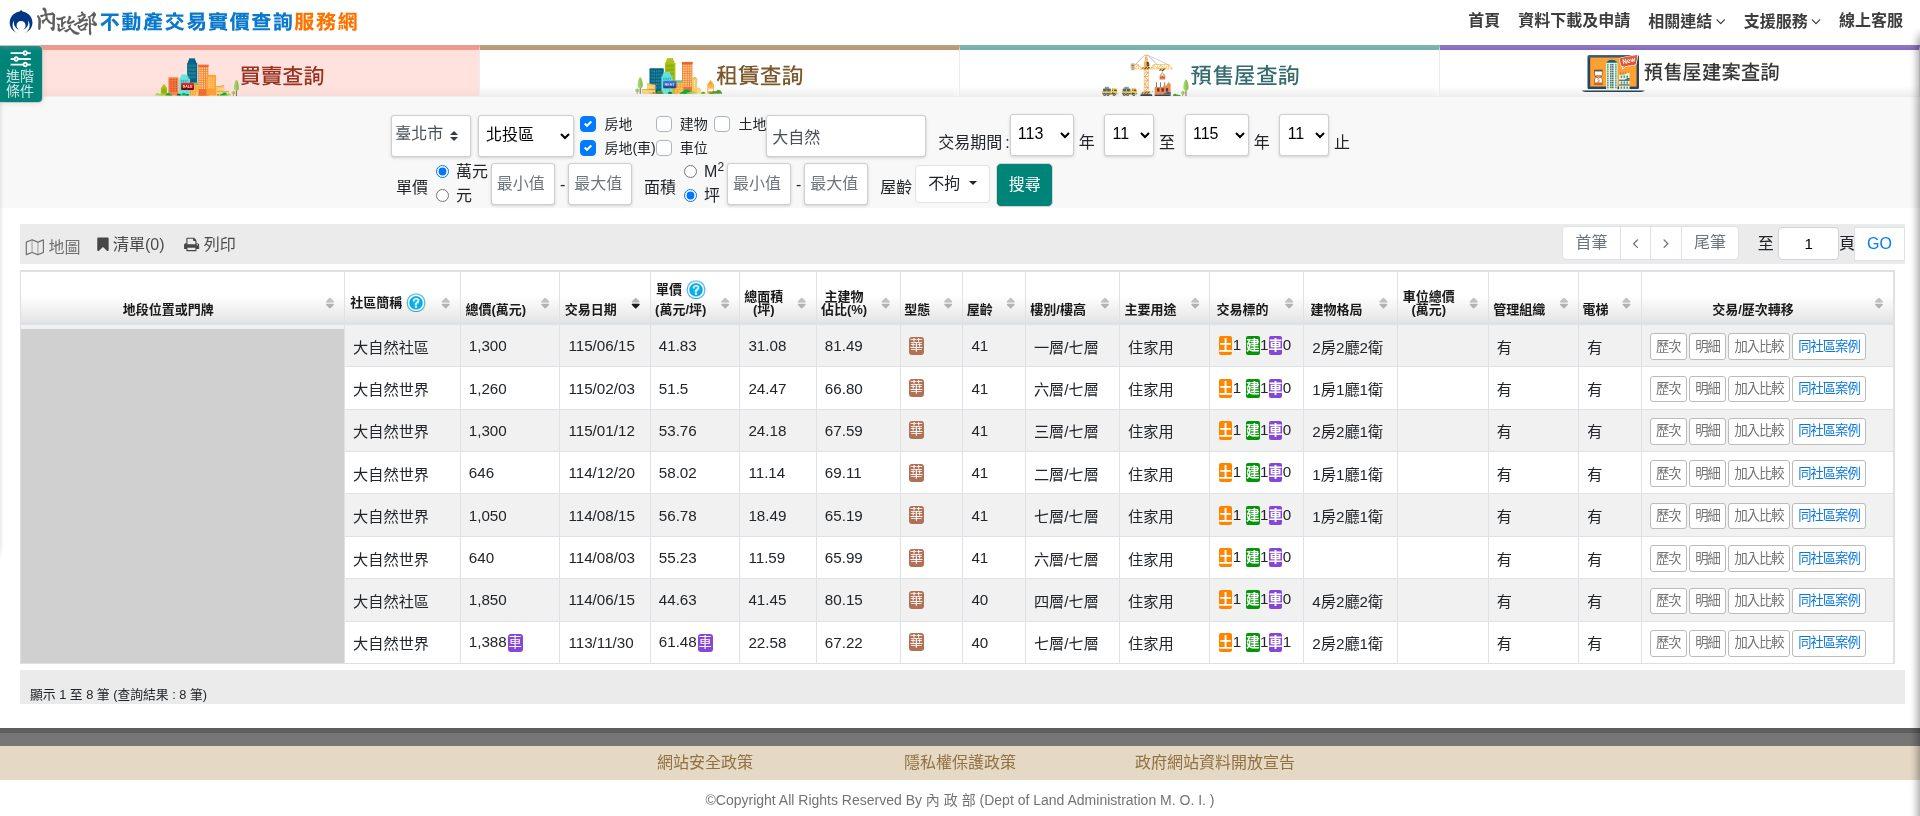
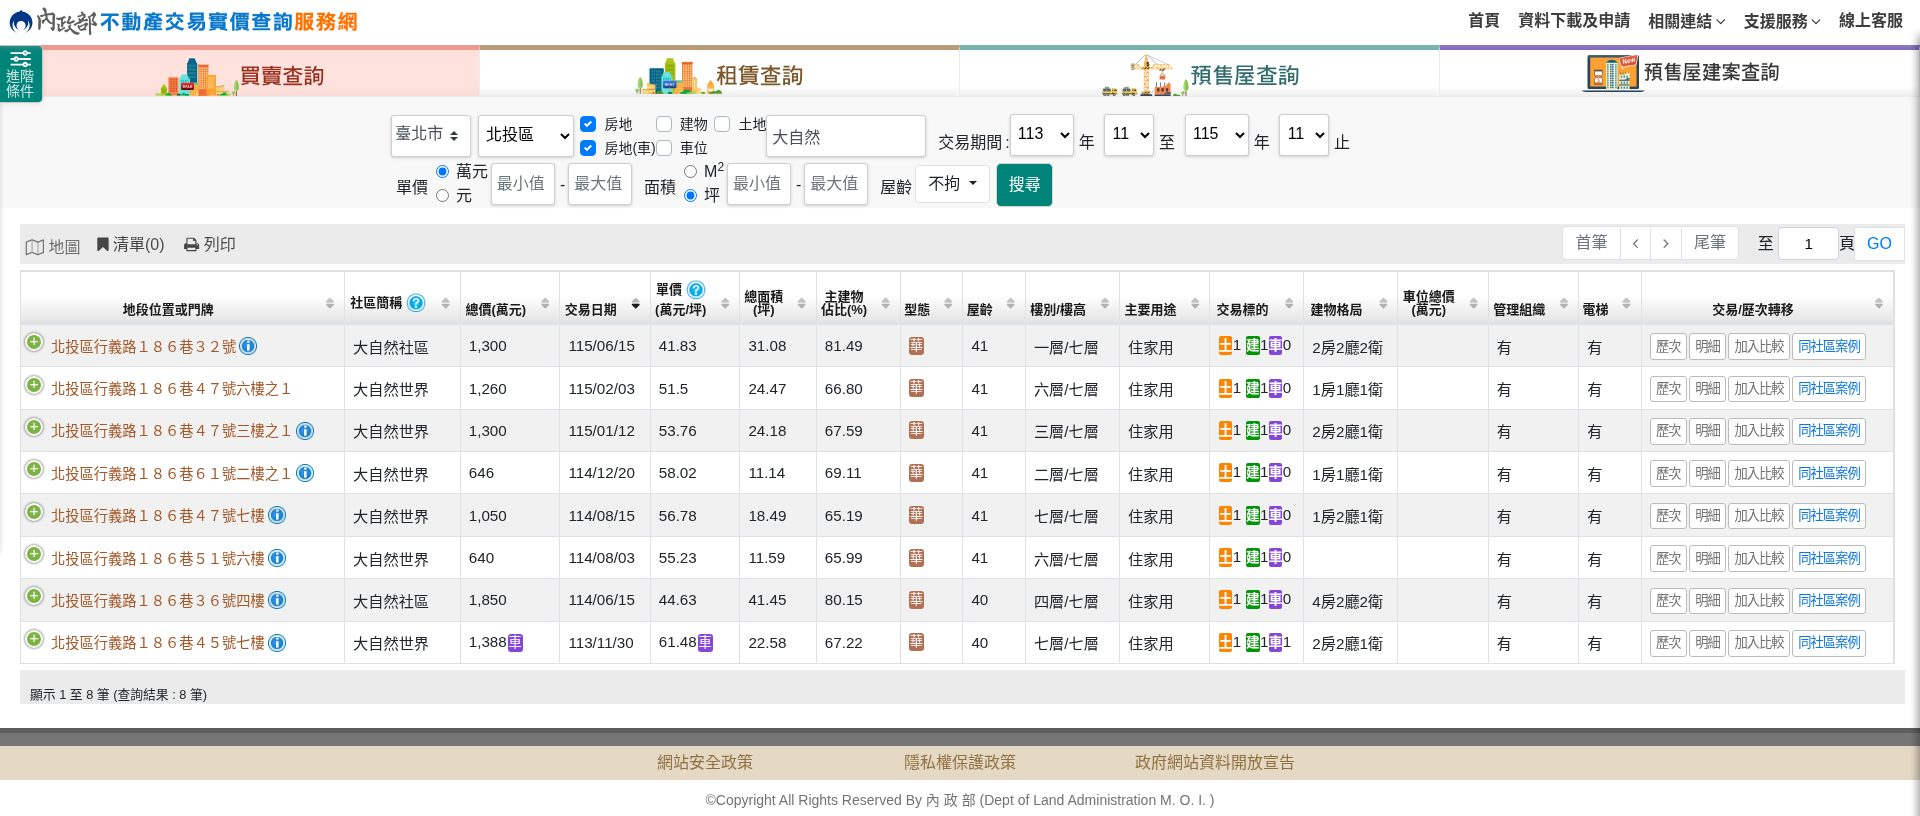
大自然加上開箱 Reel、首頁新增建物類型篩選、實價登錄截圖不再遮門牌欄

Changed region(s): [[0.0, 0.3983, 0.1875, 0.8272]]

diff --git a/index.html b/index.html
@@ -18,7 +18,7 @@
   <link rel="preconnect" href="https://fonts.googleapis.com">
   <link rel="preconnect" href="https://fonts.gstatic.com" crossorigin>
   <link href="https://fonts.googleapis.com/css2?family=Noto+Serif+TC:wght@300;400;600;700&display=swap" rel="stylesheet">
-  <link rel="stylesheet" href="assets/css/style.css?v=882d9882">
+  <link rel="stylesheet" href="assets/css/style.css?v=8adf3fb4">
   <script src="assets/js/filters.js" defer></script>
 </head>
 <body class="home">
@@ -71,6 +71,9 @@
             <option value="0">沒有車位</option>
           </select>
         </label>
+        <label class="filter-field"><span>建物類型</span>
+          <select name="buildingClass"><option value="">不限</option><option value="公寓">公寓</option><option value="華廈">華廈</option><option value="社區大樓">社區大樓</option></select>
+        </label>
         <div class="filter-foot">
           <p class="filter-result" data-filter-result></p>
           <label class="check-sold"><input type="checkbox" id="show-sold" name="sold">顯示已售</label>
@@ -81,7 +84,7 @@
     <section class="listings" id="listings" aria-live="polite">
       <a class="listing-card" data-listing href="listings/changhong-tianmu/index.html"
          data-area="士林" data-price="5100" data-rooms="3"
-         data-parking="1" data-status="sale">
+         data-parking="1" data-building-class="社區大樓" data-status="sale">
         <div class="card-photo"><img src="assets/images/listings/changhong-tianmu/photo-01.jpg" alt="客廳沙發區，窗邊採光" width="1600" height="1000"><span class="card-overlay" aria-hidden="true"><span class="card-cta">看這間 <i>→</i></span></span></div>
         <div class="card-meta">
           <p class="loc">士林</p>
@@ -92,7 +95,7 @@
       </a>
       <a class="listing-card" data-listing href="listings/changyin/index.html"
          data-area="北投" data-price="3790" data-rooms="2"
-         data-parking="1" data-status="sale">
+         data-parking="1" data-building-class="社區大樓" data-status="sale">
         <div class="card-photo"><img src="assets/images/listings/changyin/photo-01.jpg" alt="客廳餐廳與開放式廚房" width="1600" height="1000"><span class="card-overlay" aria-hidden="true"><span class="card-cta">看這間 <i>→</i></span></span></div>
         <div class="card-meta">
           <p class="loc">北投</p>
@@ -103,7 +106,7 @@
       </a>
       <a class="listing-card" data-listing href="listings/daziran/index.html"
          data-area="北投" data-price="2390" data-rooms="2"
-         data-parking="1" data-status="sale">
+         data-parking="1" data-building-class="社區大樓" data-status="sale">
         <div class="card-photo"><img src="assets/images/listings/daziran/photo-01.jpg" alt="客廳望向陽台與山景" width="1600" height="1000"><span class="card-overlay" aria-hidden="true"><span class="card-cta">看這間 <i>→</i></span></span></div>
         <div class="card-meta">
           <p class="loc">北投</p>
@@ -114,7 +117,7 @@
       </a>
       <a class="listing-card" data-listing href="listings/guomei-xinyi/index.html"
          data-area="信義" data-price="40800" data-rooms="5"
-         data-parking="1" data-status="sale">
+         data-parking="1" data-building-class="社區大樓" data-status="sale">
         <div class="card-photo"><img src="assets/images/listings/guomei-xinyi/photo-01.jpg" alt="毛胚客廳區，窗外有城市景觀" width="1600" height="1000"><span class="card-overlay" aria-hidden="true"><span class="card-cta">看這間 <i>→</i></span></span></div>
         <div class="card-meta">
           <p class="loc">信義</p>
@@ -125,7 +128,7 @@
       </a>
       <a class="listing-card" data-listing href="listings/jianan/index.html"
          data-area="松山" data-price="6580" data-rooms="3"
-         data-parking="1" data-status="sale">
+         data-parking="1" data-building-class="社區大樓" data-status="sale">
         <div class="card-photo"><img src="assets/images/listings/jianan/photo-01.jpg" alt="客廳看出去，陽明山就在窗外" width="1600" height="1000"><span class="card-overlay" aria-hidden="true"><span class="card-cta">看這間 <i>→</i></span></span></div>
         <div class="card-meta">
           <p class="loc">松山</p>
@@ -136,7 +139,7 @@
       </a>
       <a class="listing-card" data-listing href="listings/jinhu/index.html"
          data-area="內湖" data-price="1750" data-rooms="3"
-         data-parking="0" data-status="sale">
+         data-parking="0" data-building-class="公寓" data-status="sale">
         <div class="card-photo"><img src="assets/images/listings/jinhu/photo-01.jpg" alt="客廳與磁磚地板" width="1600" height="1000"><span class="card-overlay" aria-hidden="true"><span class="card-cta">看這間 <i>→</i></span></span></div>
         <div class="card-meta">
           <p class="loc">內湖</p>
@@ -147,7 +150,7 @@
       </a>
       <a class="listing-card" data-listing href="listings/tianmu-guoxiao/index.html"
          data-area="士林" data-price="2488" data-rooms="3"
-         data-parking="0" data-status="sale">
+         data-parking="0" data-building-class="公寓" data-status="sale">
         <div class="card-photo"><img src="assets/images/listings/tianmu-guoxiao/photo-01.jpg" alt="客廳沙發區與電視牆" width="1600" height="1000"><span class="card-overlay" aria-hidden="true"><span class="card-cta">看這間 <i>→</i></span></span></div>
         <div class="card-meta">
           <p class="loc">士林</p>
@@ -158,7 +161,7 @@
       </a>
       <a class="listing-card" data-listing href="listings/xinmoshi/index.html"
          data-area="北投" data-price="1958" data-rooms="2"
-         data-parking="1" data-status="sale">
+         data-parking="1" data-building-class="社區大樓" data-status="sale">
         <div class="card-photo"><img src="assets/images/listings/xinmoshi/photo-01.jpg" alt="窗邊看出去，整片山跟樹" width="1600" height="1000"><span class="card-overlay" aria-hidden="true"><span class="card-cta">看這間 <i>→</i></span></span></div>
         <div class="card-meta">
           <p class="loc">北投</p>
@@ -169,7 +172,7 @@
       </a>
       <a class="listing-card" data-listing href="listings/yuntian/index.html"
          data-area="北投" data-price="2588" data-rooms="2"
-         data-parking="1" data-status="sale">
+         data-parking="1" data-building-class="社區大樓" data-status="sale">
         <div class="card-photo"><img src="assets/images/listings/yuntian/photo-01.jpg" alt="客廳" width="1600" height="1000"><span class="card-overlay" aria-hidden="true"><span class="card-cta">看這間 <i>→</i></span></span></div>
         <div class="card-meta">
           <p class="loc">北投</p>
@@ -180,7 +183,7 @@
       </a>
       <a class="listing-card" data-listing href="listings/zhishan-villa/index.html"
          data-area="士林" data-price="2780" data-rooms="1"
-         data-parking="1" data-status="sale">
+         data-parking="1" data-building-class="社區大樓" data-status="sale">
         <div class="card-photo"><img src="assets/images/listings/zhishan-villa/photo-03.jpg" alt="客廳望向陽台與山景" width="1600" height="1000"><span class="card-overlay" aria-hidden="true"><span class="card-cta">看這間 <i>→</i></span></span></div>
         <div class="card-meta">
           <p class="loc">士林</p>
@@ -191,7 +194,7 @@
       </a>
       <a class="listing-card" data-listing href="listings/zhongcheng/index.html"
          data-area="士林" data-price="4980" data-rooms="4"
-         data-parking="0" data-status="sale">
+         data-parking="0" data-building-class="社區大樓" data-status="sale">
         <div class="card-photo"><img src="assets/images/listings/zhongcheng/photo-01.jpg" alt="客廳望向陽台，窗外一片綠" width="1600" height="1000"><span class="card-overlay" aria-hidden="true"><span class="card-cta">看這間 <i>→</i></span></span></div>
         <div class="card-meta">
           <p class="loc">士林</p>
@@ -202,7 +205,7 @@
       </a>
       <a class="listing-card" data-listing href="listings/zhongjing/index.html"
          data-area="士林" data-price="4880" data-rooms="3"
-         data-parking="1" data-status="sale">
+         data-parking="1" data-building-class="華廈" data-status="sale">
         <div class="card-photo"><img src="assets/images/listings/zhongjing/photo-01.jpg" alt="客廳望向餐廳與廚房" width="1600" height="1000"><span class="card-overlay" aria-hidden="true"><span class="card-cta">看這間 <i>→</i></span></span></div>
         <div class="card-meta">
           <p class="loc">士林</p>

diff --git a/listings/daziran/index.html b/listings/daziran/index.html
@@ -18,7 +18,7 @@
   <link rel="preconnect" href="https://fonts.googleapis.com">
   <link rel="preconnect" href="https://fonts.gstatic.com" crossorigin>
   <link href="https://fonts.googleapis.com/css2?family=Noto+Serif+TC:wght@300;400;600;700&display=swap" rel="stylesheet">
-  <link rel="stylesheet" href="../../assets/css/style.css?v=882d9882">
+  <link rel="stylesheet" href="../../assets/css/style.css?v=8adf3fb4">
   <script src="../../assets/js/gallery.js" defer></script>
 </head>
 <body class="listing-page has-cta">
@@ -38,6 +38,14 @@
     <section class="section" id="specs">
       <h2 class="section-title">物件概況</h2>
       <dl class="specs-grid"><div><dt>社區</dt><dd>大自然社區</dd></div><div><dt>位置</dt><dd>北投區行義路</dd></div><div><dt>類型</dt><dd>電梯住宅</dd></div><div><dt>樓層</dt><dd>5樓／7樓，一層2戶</dd></div><div><dt>格局</dt><dd>2房2廳2衛1室2陽台</dd></div><div><dt>屋齡</dt><dd>約41.9年</dd></div><div><dt>建坪</dt><dd>約41.23坪</dd></div><div><dt>主建物</dt><dd>約36.03坪</dd></div><div><dt>附屬建物</dt><dd>陽台約2.24坪</dd></div><div><dt>共有部分</dt><dd>約2.96坪</dd></div><div><dt>地坪</dt><dd>約9.10坪</dd></div><div><dt>車位</dt><dd>B1坡道平面，獨立權狀、僅有使用權，面積未提供，含在總價，車位380萬</dd></div><div><dt>座向</dt><dd>座西朝東</dd></div><div><dt>管理費</dt><dd>3141元／月</dd></div><div><dt>交通</dt><dd>捷運新北投站</dd></div><div><dt>生活</dt><dd>天溪綠地、天母國小、石牌國中、全聯北投行義店</dd></div></dl>
+    </section>
+    <section class="section reel-section" id="video" aria-label="影片">
+      <div class="reel-embed">
+        <blockquote class="instagram-media" data-instgrm-permalink="https://www.instagram.com/reel/DfUaQK7s-XJ/" data-instgrm-version="14">
+          <a href="https://www.instagram.com/reel/DfUaQK7s-XJ/" rel="noopener noreferrer" target="_blank">在 Instagram 觀看</a>
+        </blockquote>
+        <script async src="https://www.instagram.com/embed.js"></script>
+      </div>
     </section>
     <section class="section" id="photos">
       <h2 class="section-title">照片</h2>

diff --git a/assets/js/filters.js b/assets/js/filters.js
@@ -1,4 +1,4 @@
-/* 天母的優格｜首頁篩選：區域、總價、房數、車位、已售 */
+/* 天母的優格｜首頁篩選：區域、總價、房數、車位、建物類型、已售 */
 (function () {
   "use strict";
   var form = document.getElementById("filter-panel");
@@ -24,6 +24,7 @@
     var price = form.price.value;
     var rooms = form.rooms.value;
     var parking = form.parking.value;
+    var bclass = form.buildingClass ? form.buildingClass.value : "";
     var soldOk = showSold ? showSold.checked : false;
     var shown = 0;
     cards.forEach(function (c) {
@@ -39,6 +40,7 @@
         if (!c.dataset.parking) ok = false;
         else ok = c.dataset.parking === parking;
       }
+      if (ok && bclass && c.dataset.buildingClass !== bclass) ok = false;
       c.classList.toggle("is-hidden", !ok);
       c.hidden = !ok;
       if (ok) shown++;
@@ -49,7 +51,7 @@
     }
     if (result) result.textContent = "共 " + shown + " 間";
     if (count) count.textContent = shown + " 間";
-    var active = area || price || rooms || parking || soldOk;
+    var active = area || price || rooms || parking || bclass || soldOk;
     form.classList.toggle("is-active", !!active);
     if (toggle) toggle.classList.toggle("is-active", !!active);
   }

diff --git a/listings/changhong-tianmu/index.html b/listings/changhong-tianmu/index.html
@@ -18,7 +18,7 @@
   <link rel="preconnect" href="https://fonts.googleapis.com">
   <link rel="preconnect" href="https://fonts.gstatic.com" crossorigin>
   <link href="https://fonts.googleapis.com/css2?family=Noto+Serif+TC:wght@300;400;600;700&display=swap" rel="stylesheet">
-  <link rel="stylesheet" href="../../assets/css/style.css?v=882d9882">
+  <link rel="stylesheet" href="../../assets/css/style.css?v=8adf3fb4">
   <script src="../../assets/js/gallery.js" defer></script>
 </head>
 <body class="listing-page has-cta">

diff --git a/listings/changyin/index.html b/listings/changyin/index.html
@@ -18,7 +18,7 @@
   <link rel="preconnect" href="https://fonts.googleapis.com">
   <link rel="preconnect" href="https://fonts.gstatic.com" crossorigin>
   <link href="https://fonts.googleapis.com/css2?family=Noto+Serif+TC:wght@300;400;600;700&display=swap" rel="stylesheet">
-  <link rel="stylesheet" href="../../assets/css/style.css?v=882d9882">
+  <link rel="stylesheet" href="../../assets/css/style.css?v=8adf3fb4">
   <script src="../../assets/js/gallery.js" defer></script>
 </head>
 <body class="listing-page has-cta">

diff --git a/listings/guomei-xinyi/index.html b/listings/guomei-xinyi/index.html
@@ -18,7 +18,7 @@
   <link rel="preconnect" href="https://fonts.googleapis.com">
   <link rel="preconnect" href="https://fonts.gstatic.com" crossorigin>
   <link href="https://fonts.googleapis.com/css2?family=Noto+Serif+TC:wght@300;400;600;700&display=swap" rel="stylesheet">
-  <link rel="stylesheet" href="../../assets/css/style.css?v=882d9882">
+  <link rel="stylesheet" href="../../assets/css/style.css?v=8adf3fb4">
   <script src="../../assets/js/gallery.js" defer></script>
 </head>
 <body class="listing-page has-cta">

diff --git a/listings/jianan/index.html b/listings/jianan/index.html
@@ -18,7 +18,7 @@
   <link rel="preconnect" href="https://fonts.googleapis.com">
   <link rel="preconnect" href="https://fonts.gstatic.com" crossorigin>
   <link href="https://fonts.googleapis.com/css2?family=Noto+Serif+TC:wght@300;400;600;700&display=swap" rel="stylesheet">
-  <link rel="stylesheet" href="../../assets/css/style.css?v=882d9882">
+  <link rel="stylesheet" href="../../assets/css/style.css?v=8adf3fb4">
   <script src="../../assets/js/gallery.js" defer></script>
 </head>
 <body class="listing-page has-cta">

diff --git a/listings/jinhu/index.html b/listings/jinhu/index.html
@@ -18,7 +18,7 @@
   <link rel="preconnect" href="https://fonts.googleapis.com">
   <link rel="preconnect" href="https://fonts.gstatic.com" crossorigin>
   <link href="https://fonts.googleapis.com/css2?family=Noto+Serif+TC:wght@300;400;600;700&display=swap" rel="stylesheet">
-  <link rel="stylesheet" href="../../assets/css/style.css?v=882d9882">
+  <link rel="stylesheet" href="../../assets/css/style.css?v=8adf3fb4">
   <script src="../../assets/js/gallery.js" defer></script>
 </head>
 <body class="listing-page has-cta">

diff --git a/listings/tianmu-guoxiao/index.html b/listings/tianmu-guoxiao/index.html
@@ -18,7 +18,7 @@
   <link rel="preconnect" href="https://fonts.googleapis.com">
   <link rel="preconnect" href="https://fonts.gstatic.com" crossorigin>
   <link href="https://fonts.googleapis.com/css2?family=Noto+Serif+TC:wght@300;400;600;700&display=swap" rel="stylesheet">
-  <link rel="stylesheet" href="../../assets/css/style.css?v=882d9882">
+  <link rel="stylesheet" href="../../assets/css/style.css?v=8adf3fb4">
   <script src="../../assets/js/gallery.js" defer></script>
 </head>
 <body class="listing-page has-cta">

diff --git a/listings/xinmoshi/index.html b/listings/xinmoshi/index.html
@@ -18,7 +18,7 @@
   <link rel="preconnect" href="https://fonts.googleapis.com">
   <link rel="preconnect" href="https://fonts.gstatic.com" crossorigin>
   <link href="https://fonts.googleapis.com/css2?family=Noto+Serif+TC:wght@300;400;600;700&display=swap" rel="stylesheet">
-  <link rel="stylesheet" href="../../assets/css/style.css?v=882d9882">
+  <link rel="stylesheet" href="../../assets/css/style.css?v=8adf3fb4">
   <script src="../../assets/js/gallery.js" defer></script>
 </head>
 <body class="listing-page has-cta">

diff --git a/listings/yuntian/index.html b/listings/yuntian/index.html
@@ -18,7 +18,7 @@
   <link rel="preconnect" href="https://fonts.googleapis.com">
   <link rel="preconnect" href="https://fonts.gstatic.com" crossorigin>
   <link href="https://fonts.googleapis.com/css2?family=Noto+Serif+TC:wght@300;400;600;700&display=swap" rel="stylesheet">
-  <link rel="stylesheet" href="../../assets/css/style.css?v=882d9882">
+  <link rel="stylesheet" href="../../assets/css/style.css?v=8adf3fb4">
   <script src="../../assets/js/gallery.js" defer></script>
 </head>
 <body class="listing-page has-cta">

diff --git a/listings/zhishan-villa/index.html b/listings/zhishan-villa/index.html
@@ -18,7 +18,7 @@
   <link rel="preconnect" href="https://fonts.googleapis.com">
   <link rel="preconnect" href="https://fonts.gstatic.com" crossorigin>
   <link href="https://fonts.googleapis.com/css2?family=Noto+Serif+TC:wght@300;400;600;700&display=swap" rel="stylesheet">
-  <link rel="stylesheet" href="../../assets/css/style.css?v=882d9882">
+  <link rel="stylesheet" href="../../assets/css/style.css?v=8adf3fb4">
   <script src="../../assets/js/gallery.js" defer></script>
 </head>
 <body class="listing-page has-cta">
